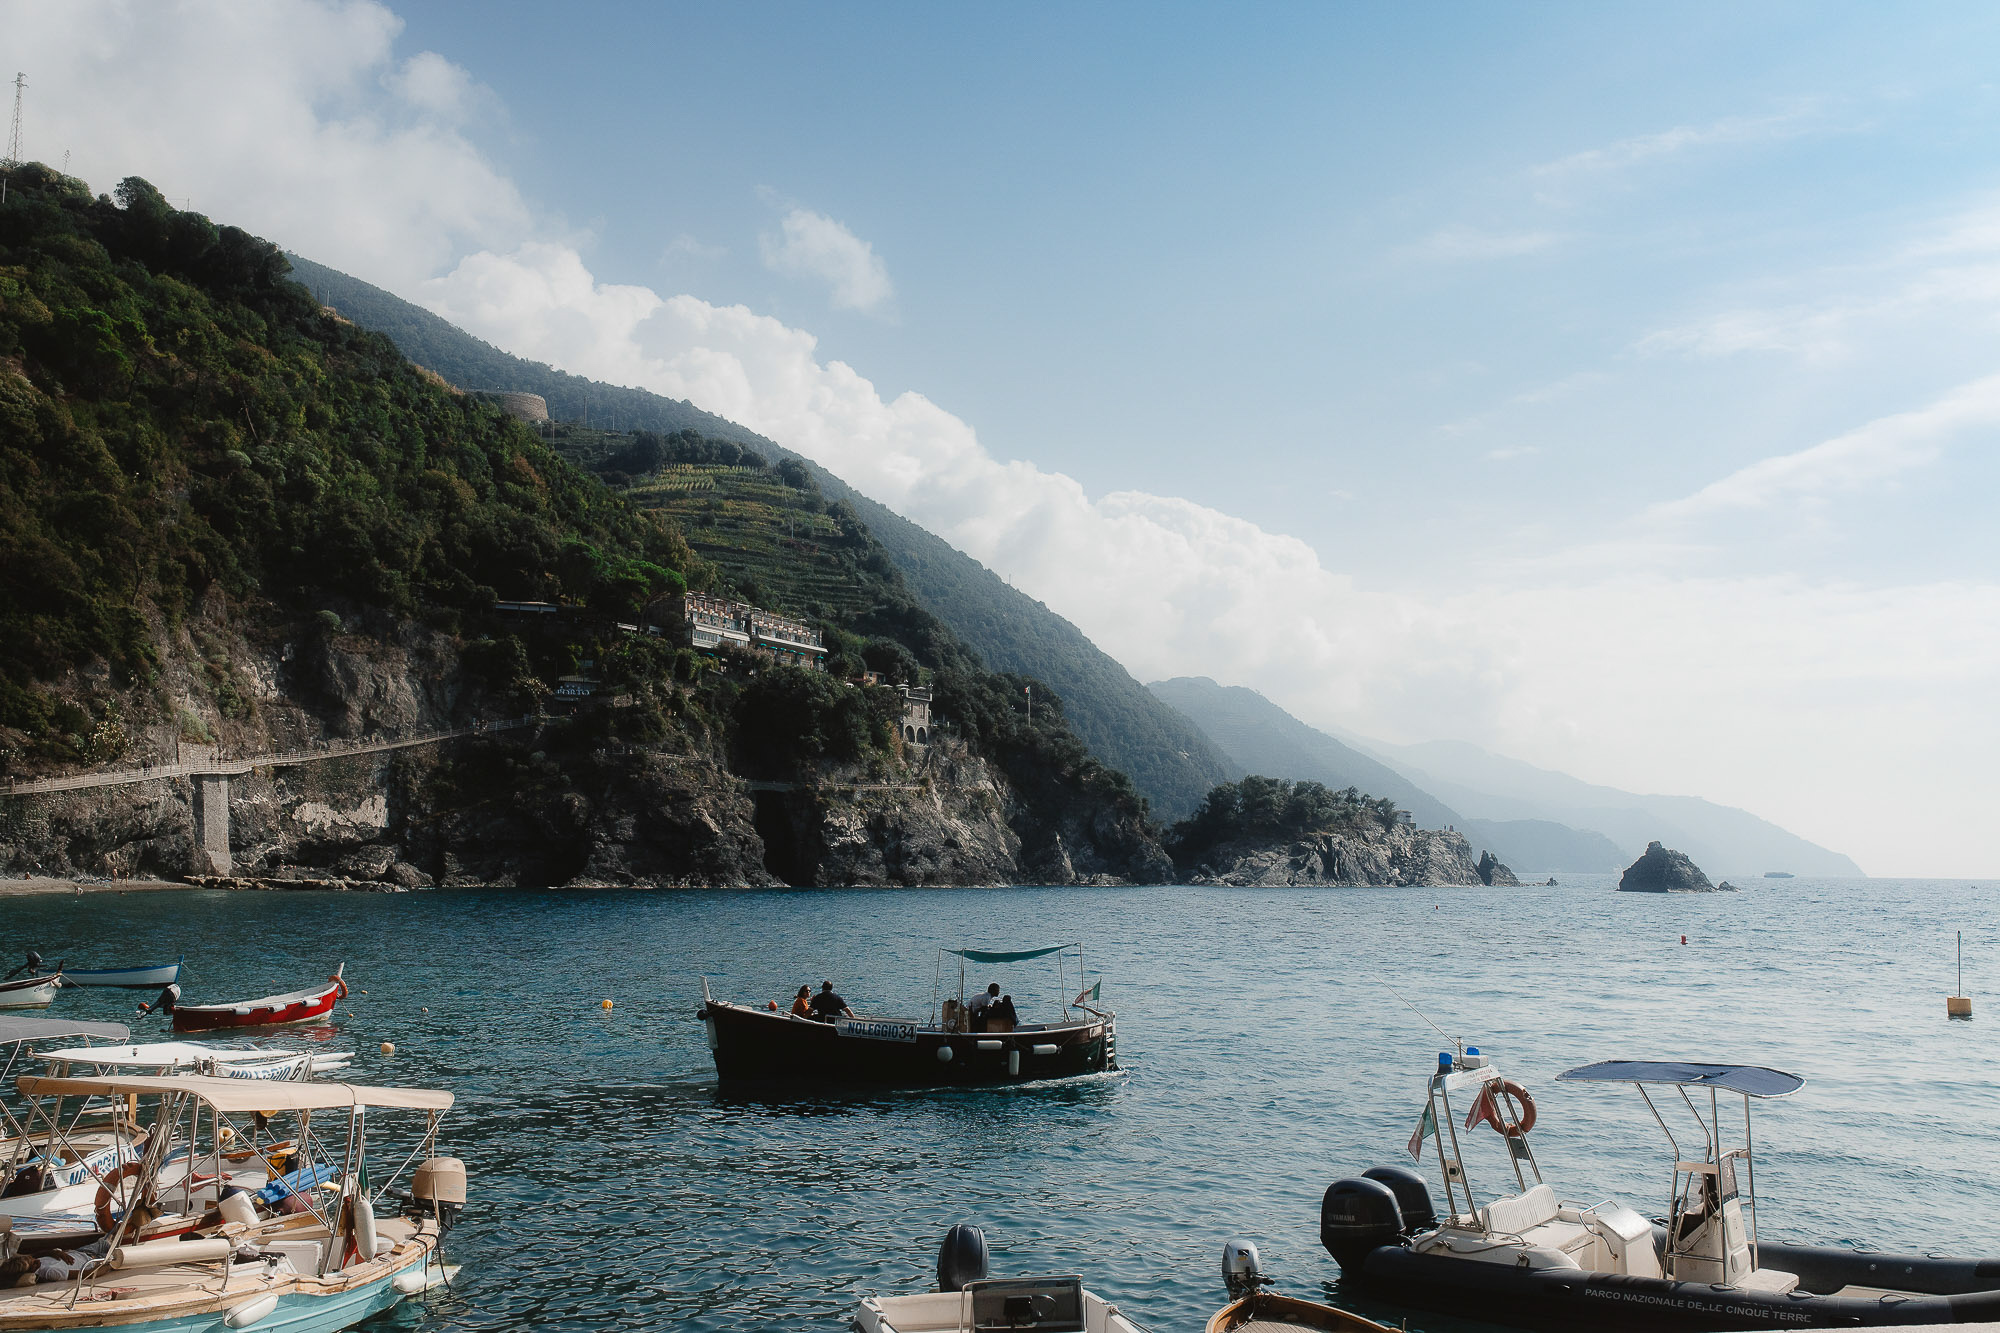
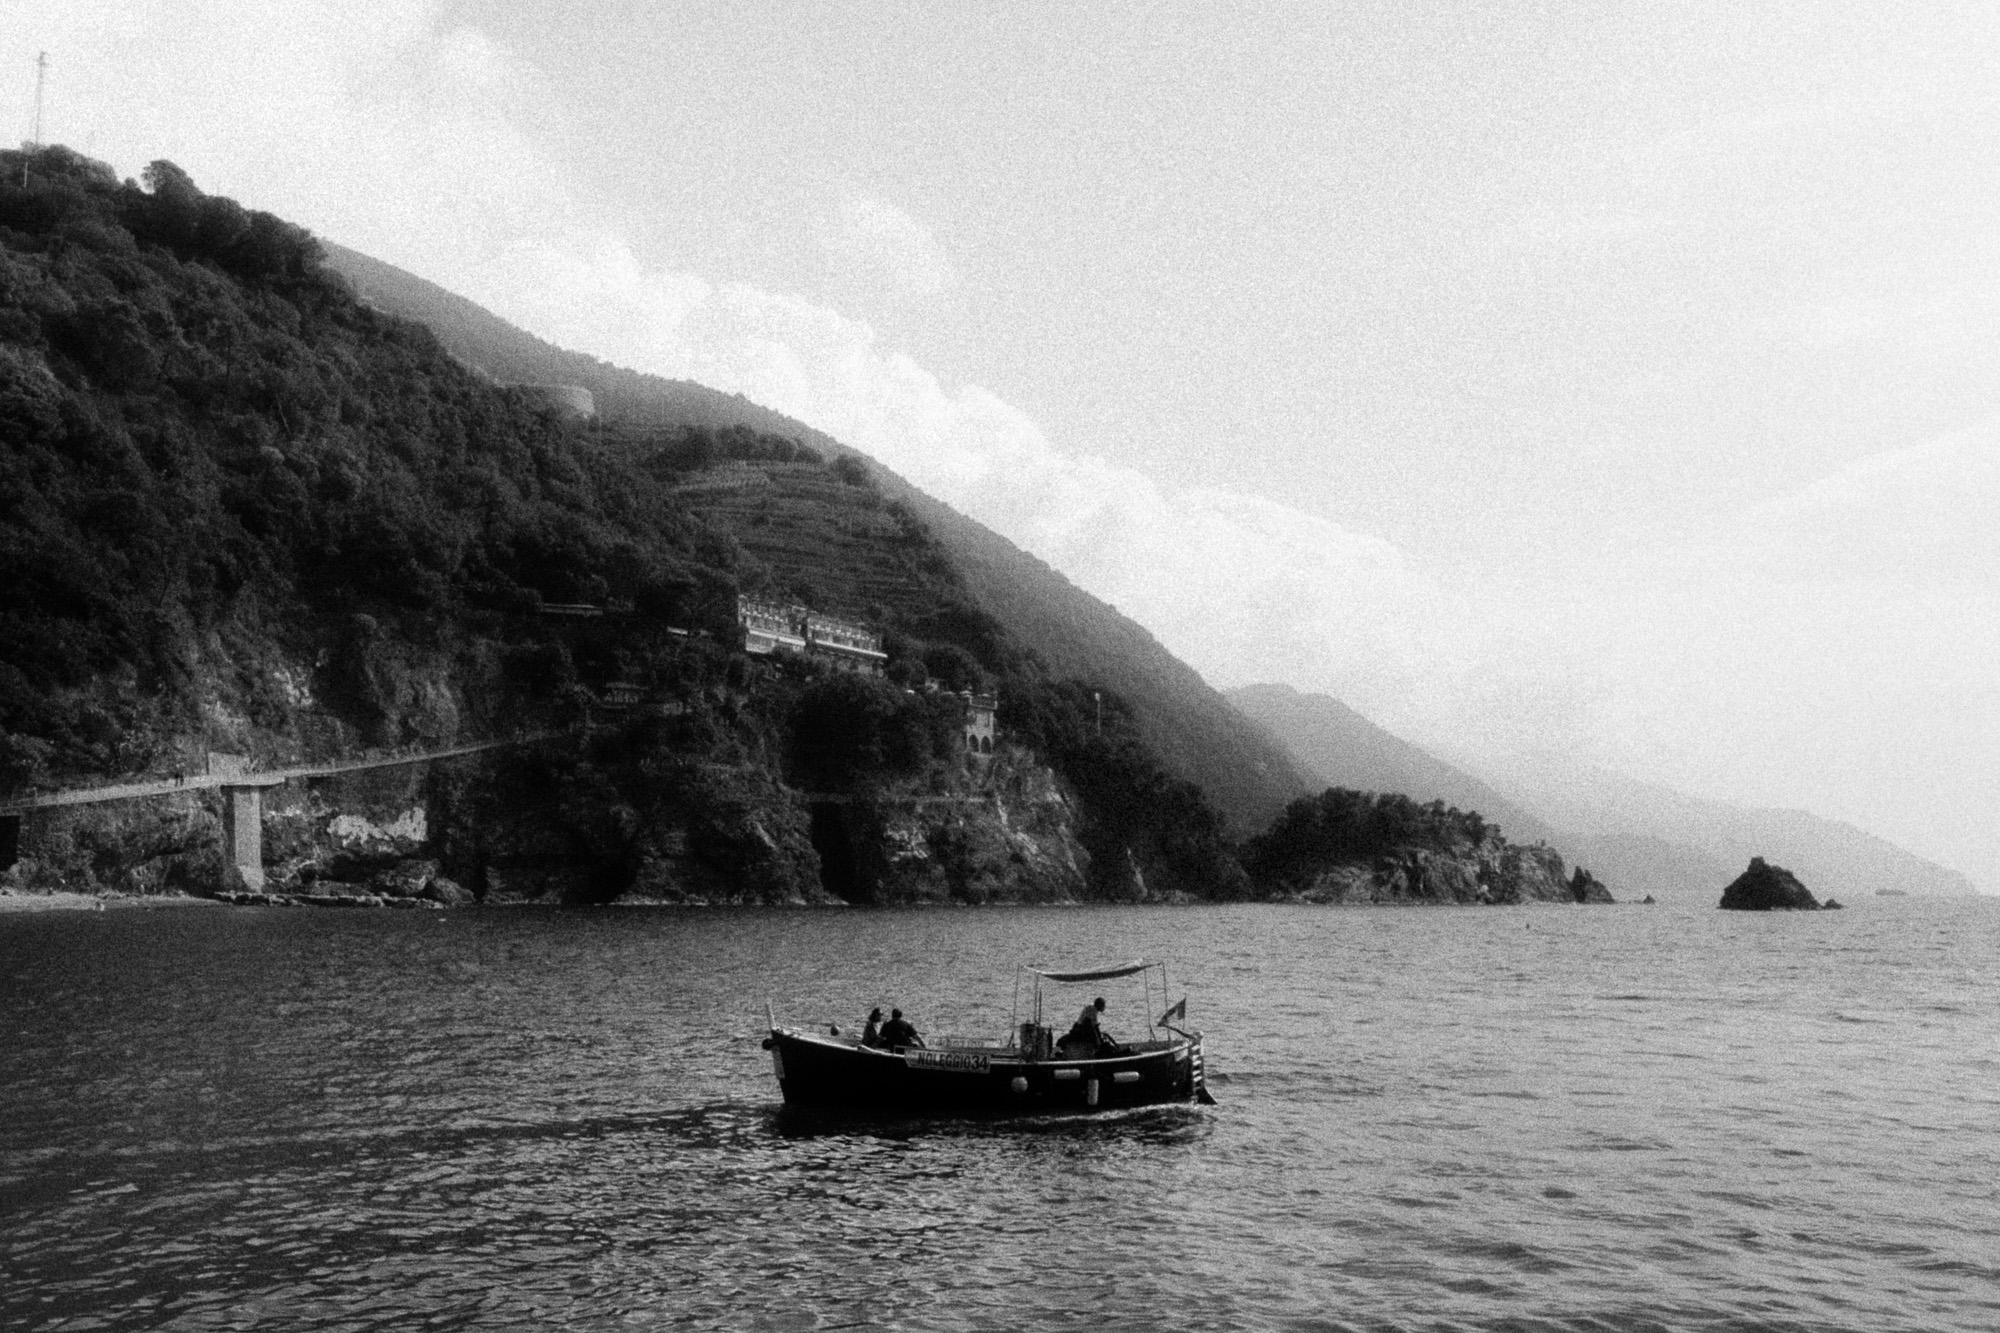
Refactor code structure for improved readability and maintainability

diff --git a/script.js b/script.js
@@ -19,7 +19,7 @@
 
 const frases = [
   "There's nothing more precious than time.",
-  "Virgil Was Here.",
+  "Virgil was here.",
   "The world produces waves. Surf or drown, you decide.",
   "I did it for me. I liked it. I was good at it. And... I was alive.",
   "The impossible is possible.",
@@ -64,6 +64,14 @@ const frases = [
   "Follow the white rabbit.",
   "Red deck wins.",
   "What is better? To be born good, or to overcome your evil nature through great effort?",
+  "Look around, Ted. You're all alone.",
+  "I went to dm's website and all I got was this f**king quote.",
+  "In a space where there is no room, in a structure that was never built, meets the guild that doesn't exist.",
+  "The cycle of life and death continues. We will live, they will die.",
+  "Spiritual healing.",
+  "Reading the card explains the card.",
+  "A real artist flirts with failure daily.",
+  "Enter the labyrinth...",
   "From the underground to the underground, since 2017 'til god knows when."
 ];
 

diff --git a/index.html b/index.html
@@ -42,7 +42,7 @@ container_class: "galeria--index"
      página (função embaralharGalerias()).
 ========================================================== -->
 <div class="galeria galeria--random">
-  {% for i in (1..30) %}
+  {% for i in (1..33) %}
     {% assign numero = i | prepend: '000' | slice: -3, 3 %}
     <img src="/img/portfolio/{{ numero }}.jpg" alt="Imagem {{ i }}" loading="lazy">
   {% endfor %}
